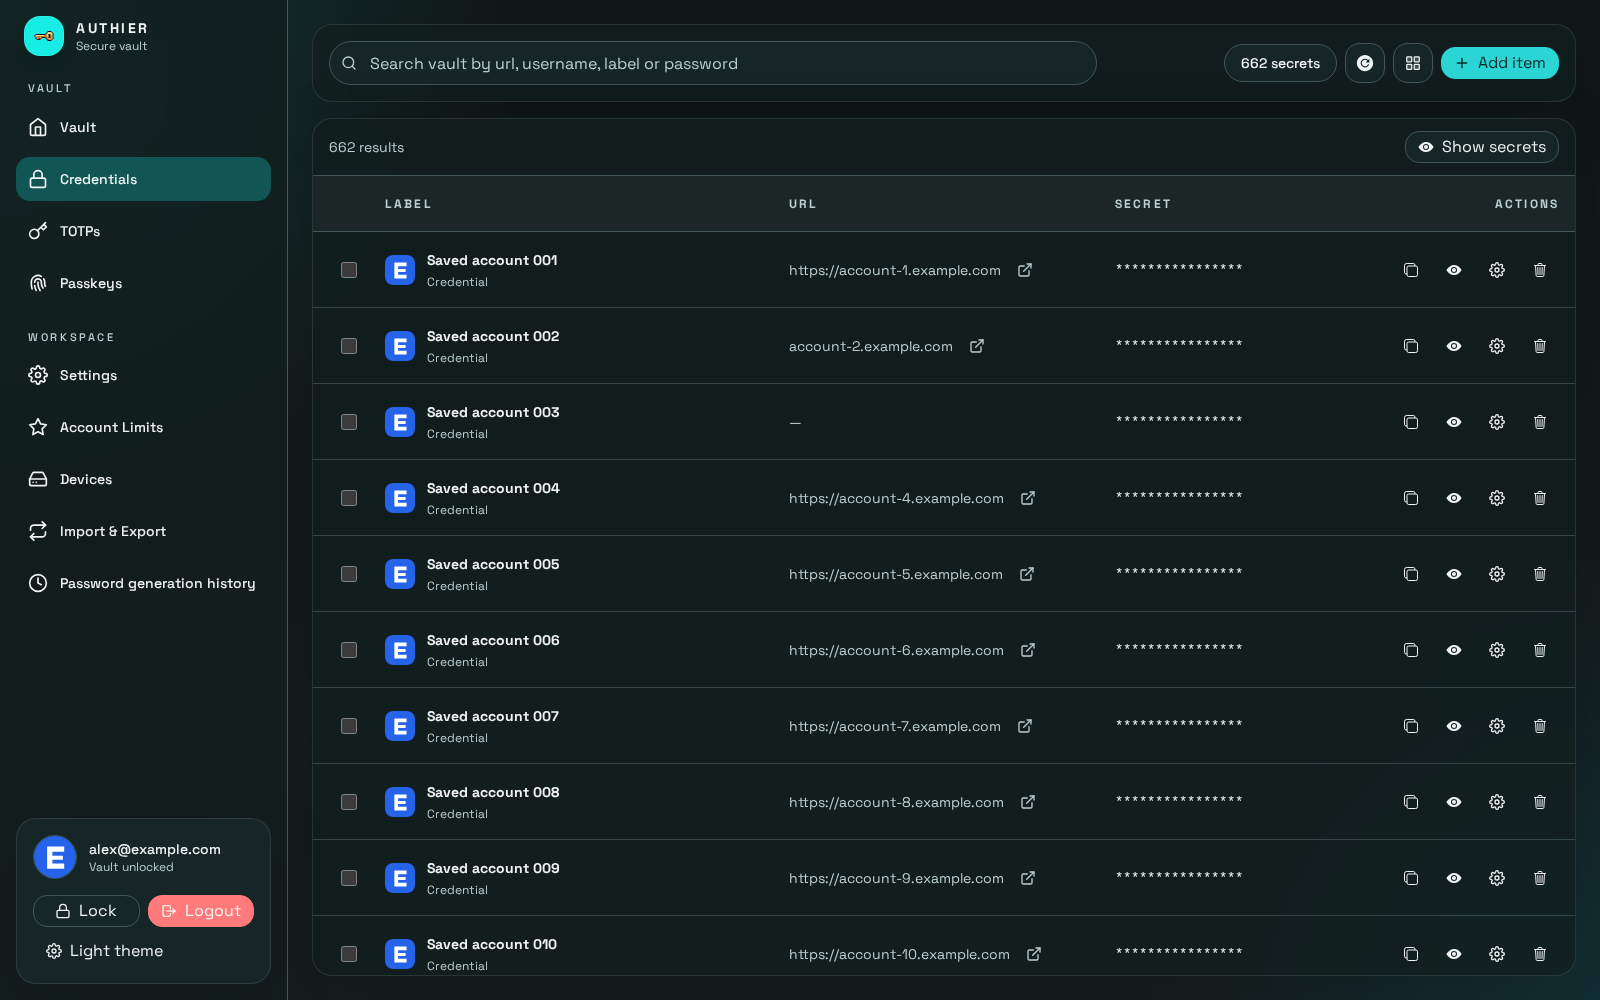
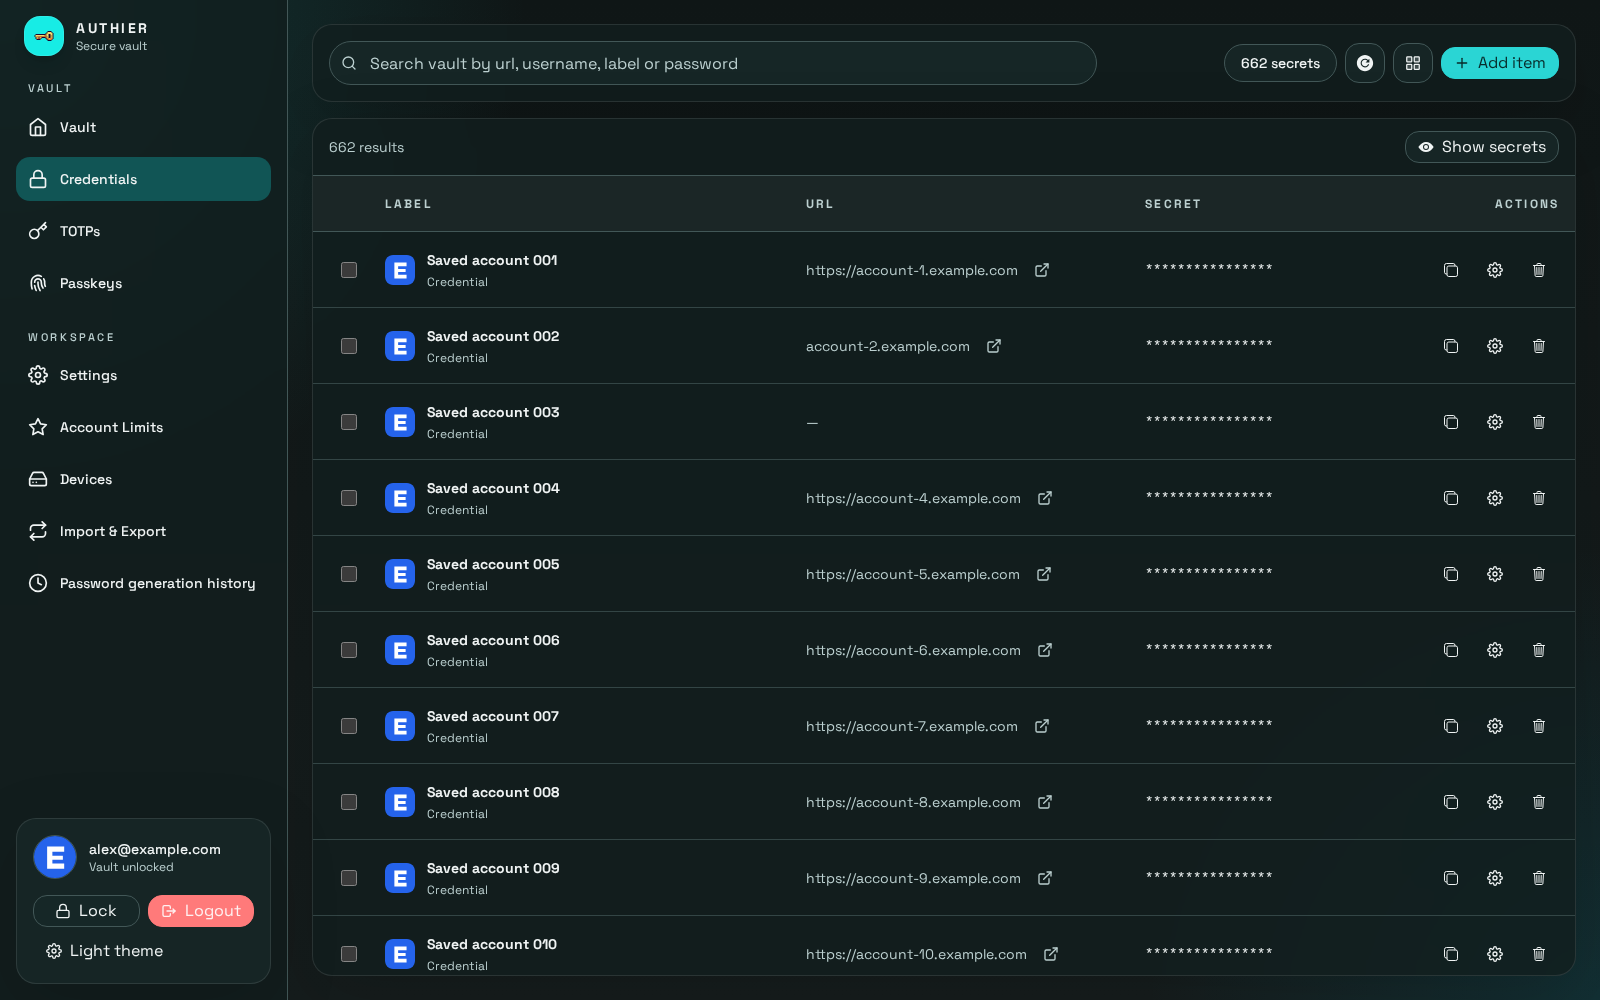
Use the table-wide secret visibility toggle

diff --git a/web-extension/src/components/vault/TableList.tsx b/web-extension/src/components/vault/TableList.tsx
@@ -35,7 +35,7 @@ import { useScrollContainer, useVirtualWindow } from './useVirtualWindow'
 
 const tableGridStyle = {
   gridTemplateColumns:
-    '40px minmax(280px, 1.5fr) minmax(260px, 1.2fr) minmax(260px, 1fr) 168px'
+    '40px minmax(280px, 1.5fr) minmax(260px, 1.2fr) minmax(260px, 1fr) 128px'
 } as const
 
 const tableGridClassName = 'grid min-w-[940px] gap-4 px-4'
@@ -211,15 +211,13 @@ function SecretTableRow({
   showAllSecrets: boolean
   isBulkMode: boolean
 }) {
-  const [isSecretVisible, setIsSecretVisible] = useState(false)
   const toast = useAppToast()
   const secretUrl = getSecretUrl(row)
   const navigableUrl = getNavigableSecretUrl(row)
   const isTotp = isTotpSecret(row)
-  const renderedSecret =
-    isSecretVisible || showAllSecrets
-      ? getSecretValue(row)
-      : getMaskedSecretValue(row)
+  const renderedSecret = showAllSecrets
+    ? getSecretValue(row)
+    : getMaskedSecretValue(row)
 
   return (
     <div
@@ -284,51 +282,22 @@ function SecretTableRow({
 
       <div className="relative z-10 flex items-center justify-end gap-1">
         {!isPasskeySecret(row) && (
-          <>
-            <Tooltip content={isTotp ? t`Copy token` : t`Copy`}>
-              <Button
-                aria-label={isTotp ? t`Copy token` : t`Copy`}
-                onClick={async () => {
-                  await navigator.clipboard.writeText(getSecretCopyValue(row))
-                  toast({
-                    title: t`Copied to clipboard`,
-                    status: 'success'
-                  })
-                }}
-                size="icon"
-                variant="ghost"
-              >
-                <CopyIcon boxSize={16} />
-              </Button>
-            </Tooltip>
-
-            <Tooltip
-              content={
-                isSecretVisible || showAllSecrets
-                  ? t`Hide secret`
-                  : t`Show secret`
-              }
+          <Tooltip content={isTotp ? t`Copy token` : t`Copy`}>
+            <Button
+              aria-label={isTotp ? t`Copy token` : t`Copy`}
+              onClick={async () => {
+                await navigator.clipboard.writeText(getSecretCopyValue(row))
+                toast({
+                  title: t`Copied to clipboard`,
+                  status: 'success'
+                })
+              }}
+              size="icon"
+              variant="ghost"
             >
-              <Button
-                aria-label={
-                  isSecretVisible || showAllSecrets
-                    ? t`Hide secret`
-                    : t`Show secret`
-                }
-                onClick={() => {
-                  setIsSecretVisible((currentValue) => !currentValue)
-                }}
-                size="icon"
-                variant="ghost"
-              >
-                {isSecretVisible || showAllSecrets ? (
-                  <ViewOffIcon boxSize={16} />
-                ) : (
-                  <ViewIcon boxSize={16} />
-                )}
-              </Button>
-            </Tooltip>
-          </>
+              <CopyIcon boxSize={16} />
+            </Button>
+          </Tooltip>
         )}
         <Tooltip content={t`Edit`}>
           <Link

diff --git a/web-extension/tests/ui-preview/vaultTableNavigation.spec.ts b/web-extension/tests/ui-preview/vaultTableNavigation.spec.ts
@@ -142,9 +142,16 @@ test('keeps selection, reveal, copy, edit and delete independent of row navigati
   await expect(page.getByText('1 selected', { exact: true })).toBeVisible()
   await checkbox.uncheck()
 
-  await row.getByRole('button', { name: 'Show secret', exact: true }).click()
+  await expect(
+    row.getByRole('button', { name: /show|hide.*secret/i })
+  ).toHaveCount(0)
+  await page
+    .getByRole('button', { name: 'Show all secrets', exact: true })
+    .click()
   await expect(row.getByText('preview-password', { exact: true })).toBeVisible()
-  await row.getByRole('button', { name: 'Hide secret', exact: true }).click()
+  await page
+    .getByRole('button', { name: 'Hide all secrets', exact: true })
+    .click()
   await expect(row.getByText('preview-password', { exact: true })).toHaveCount(
     0
   )

diff --git a/web-extension/ui-preview/README.md b/web-extension/ui-preview/README.md
@@ -190,8 +190,9 @@ clearing an empty search restores the list, and resizing updates the visible
 items in Firefox and Chromium. Screenshots are captured under
 `docs/screenshots/vault-scrolling-{table,cards}-{firefox,chromium}.png`.
 Run `pnpm playwright:ui-preview vaultTableNavigation.spec.ts` to verify row and
-keyboard navigation, website links, and independent checkbox, copy, reveal,
-edit, and delete controls. It captures `docs/screenshots/vault-table-navigation.png`.
+keyboard navigation, website links, the top-level show/hide-secrets toggle, and
+independent checkbox, copy, edit, and delete controls. Row actions omit a reveal
+button. It captures `docs/screenshots/vault-table-navigation.png`.
 
 The `offline-vault` scenario (`scenarios/offlineVault.ts`) renders the actual built
 extension in a disposable Chromium profile with encrypted synthetic passwords,
